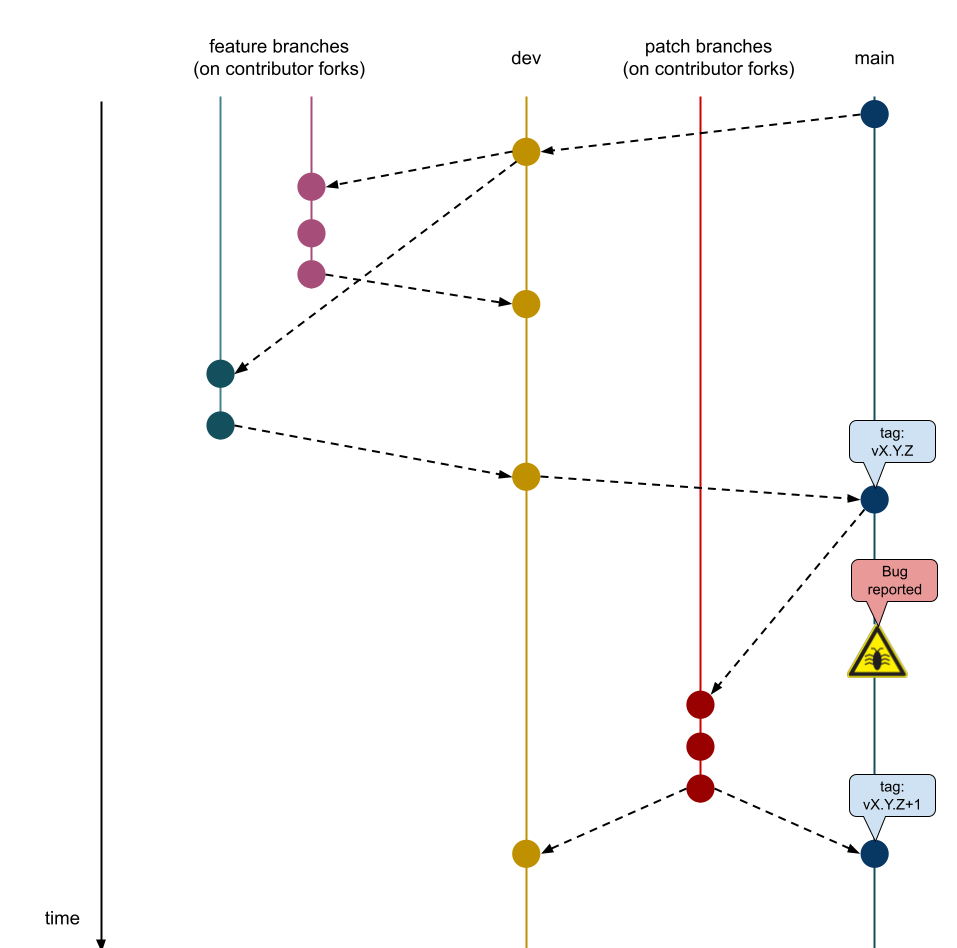
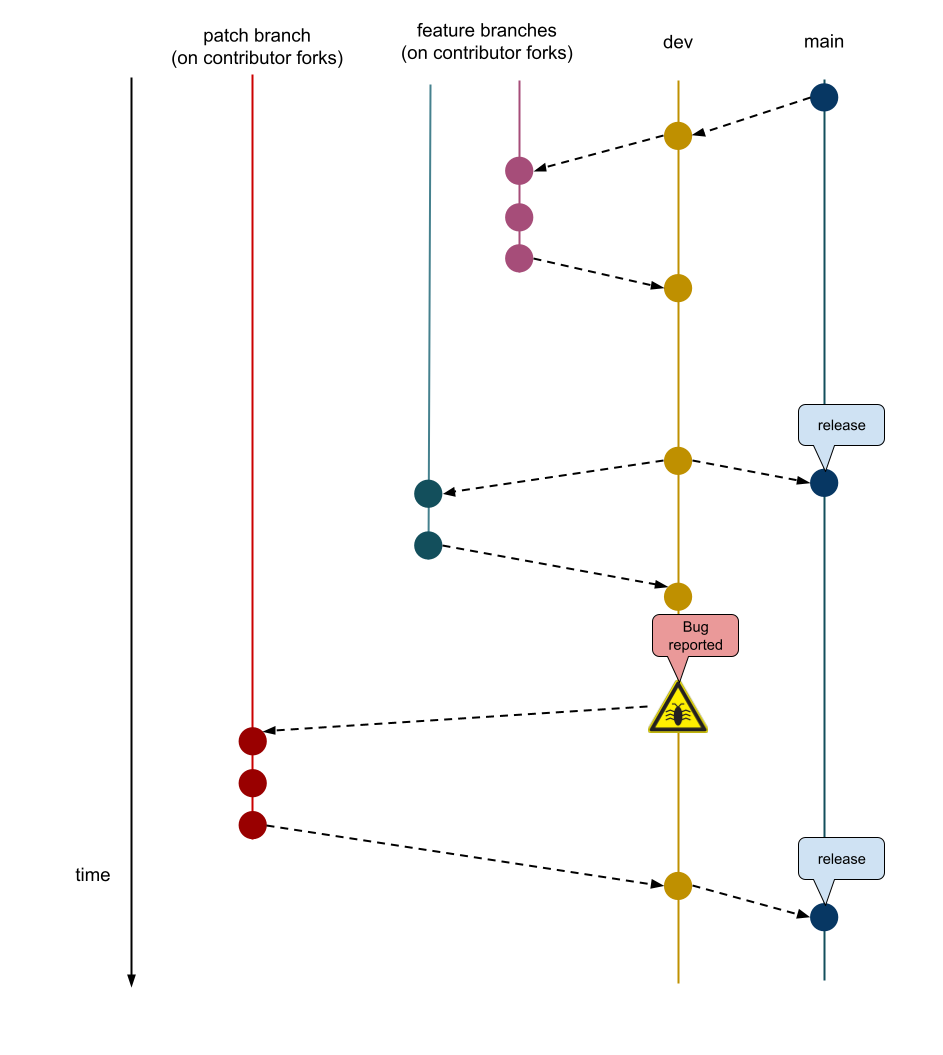
patch RELEASE.md

diff --git a/RELEASE.md b/RELEASE.md
@@ -30,11 +30,11 @@ The SRI repo holds two principal branches with an infinite lifetime:
 - `main`
 - `dev`
 
-We consider `main` to be the branch where the source code of `HEAD` always reflects a production-ready state.
+We consider `main` to be the branch where the source code of `HEAD` always reflects the latest release.
 
-We consider `dev` to be the branch where the source code of `HEAD` always reflects a state with the latest delivered development changes for the next release.
+We consider `dev` to be the branch where the source code of `HEAD` always reflects the latest changes in the development cycle.
 
-The SRI team will decide the appropriate time when the changes to `dev` are merged back into `main` and then tagged with a release number while bumping `MAJOR` and/or `MINOR`.
+The SRI team will decide the appropriate time when the changes to `dev` are merged back into `main` and then tagged with a release number while bumping `MAJOR`, `MINOR`, or `PATCH`.
 
 ## Feature Branches
 
@@ -48,8 +48,8 @@ New features are developed into separate branches that only live in the contribu
 
 Bugs are patched into separate branches that only live in the contributor's forks.
 
-- branch off from: `main`
-- merge back into: `main` + `dev`
+- branch off from: `dev`
+- merge back into: `dev`
 - naming convention: `patch-x`, where `x` describes the bug/patch
 
 # Releasing Roles Binaries
@@ -72,7 +72,7 @@ If a crate is not updated successfully, the step will fail, but since all steps 
 
 Since steps can fail, the output of the action must be manually checked.
 
-Every PR to `main` (either coming from `dev`, or a patch) needs to increase the version of whatever crate it is touching. Otherwise, we will mess up the dependency chain of whoever is fetching from crates.io
+Every PR to `main` needs to increase the version of whatever crate it is touching. Otherwise, we will mess up the dependency chain of whoever is fetching from crates.io
 
 Manually running `cargo release` in the various workspaces helps to prepare the version number before the releases are published.
 
